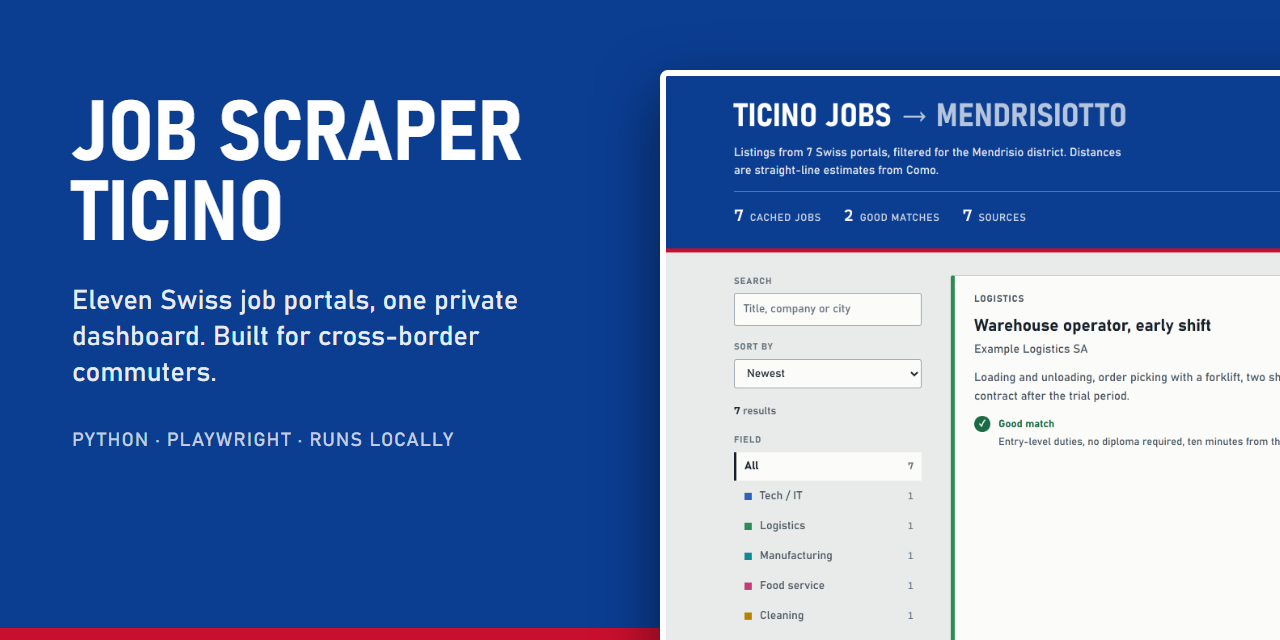
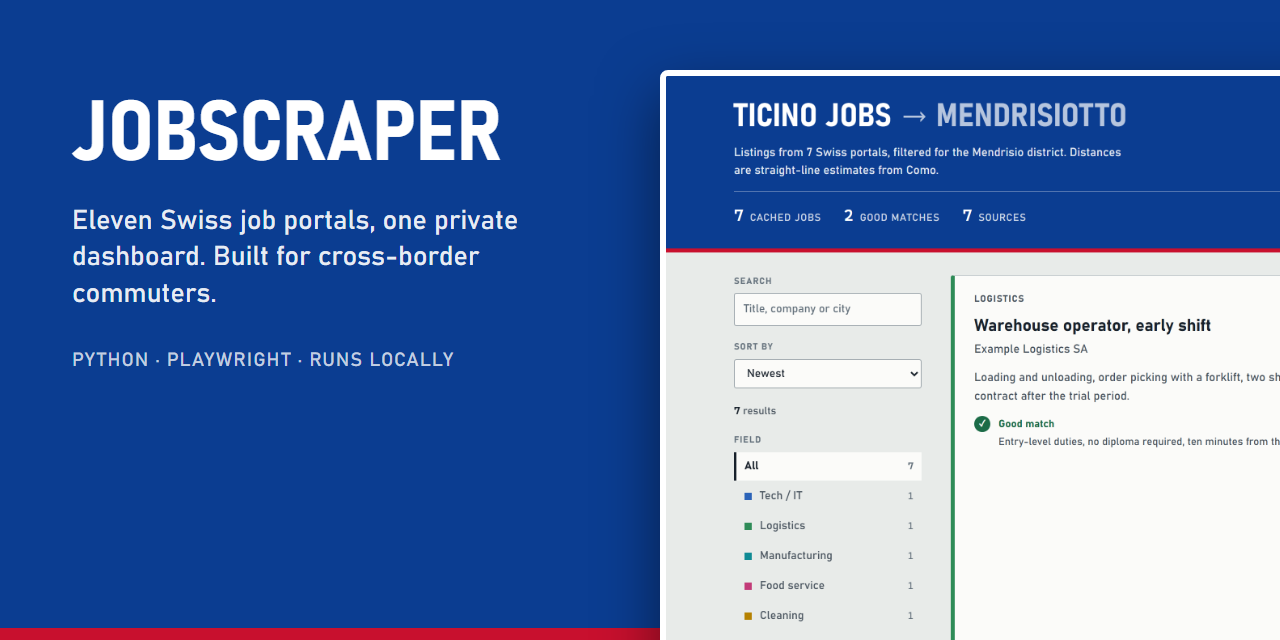
Rename the project to JobScraper
Update the project name, clone and badge links, the security advisory
link, the control panel title and the documentation images.

Changed region(s): [[0.0312, 0.2812, 0.4062, 0.5938], [0.1562, 0.1562, 0.4062, 0.25], [0.0625, 0.6562, 0.3438, 0.7188]]

diff --git a/setup_panel.html b/setup_panel.html
@@ -3,7 +3,7 @@
 <head>
   <meta charset="utf-8">
   <meta name="viewport" content="width=device-width, initial-scale=1">
-  <title>Configure Job Scraper Ticino</title>
+  <title>Configure JobScraper</title>
   <style>
     /* Same palette as the dashboard: cold stone paper, ink, Ticino blue sign, one red action. */
     :root {
@@ -74,7 +74,7 @@
 <body>
 <header class="sign">
   <div class="sign-in">
-    <h1>Job Scraper Ticino</h1>
+    <h1>JobScraper</h1>
     <p class="intro">Choose where and how to search. The search runs in the background and builds your dashboard.</p>
   </div>
 </header>

diff --git a/main.py b/main.py
@@ -1,4 +1,4 @@
-"""Command-line entry point for the Ticino job scraper."""
+"""Command-line entry point for JobScraper."""
 
 import argparse
 import json
@@ -558,7 +558,7 @@ def _save_completed_or_partial(valid_jobs: list[dict], completed: bool) -> None:
 
 
 def _parse_args() -> argparse.Namespace:
-    parser = argparse.ArgumentParser(description="Ticino job scraper")
+    parser = argparse.ArgumentParser(description="JobScraper")
     _add_scan_args(parser)
     _add_runtime_args(parser)
     return parser.parse_args()

diff --git a/tests/test_setup_panel.py b/tests/test_setup_panel.py
@@ -39,7 +39,7 @@ def test_panel_requires_unpredictable_path(panel):
     assert status == 404
     status, html = request(panel, "GET", f"/{panel.token}")
     assert status == 200
-    assert b"Job Scraper Ticino" in html
+    assert b"JobScraper" in html
 
 
 def test_panel_rejects_cross_origin_and_missing_token(panel):

diff --git a/README.md b/README.md
@@ -1,11 +1,11 @@
 <div align="center">
 
-# Job Scraper Ticino
+# JobScraper
 
 **Eleven Swiss job portals, one private dashboard.**<br>
 Built for cross-border commuters who live in Italy and work in the Mendrisiotto (Ticino).
 
-[![CI](https://github.com/jacknegri89/Job-Scraper-Ticino/actions/workflows/ci.yml/badge.svg)](https://github.com/jacknegri89/Job-Scraper-Ticino/actions/workflows/ci.yml)
+[![CI](https://github.com/jacknegri89/JobScraper/actions/workflows/ci.yml/badge.svg)](https://github.com/jacknegri89/JobScraper/actions/workflows/ci.yml)
 ![Python 3.10+](https://img.shields.io/badge/python-3.10%2B-3776AB?logo=python&logoColor=white)
 ![Playwright](https://img.shields.io/badge/scraping-Playwright-2EAD33?logo=playwright&logoColor=white)
 [![MIT License](https://img.shields.io/badge/license-MIT-blue)](./LICENSE)
@@ -24,7 +24,7 @@ Built for cross-border commuters who live in Italy and work in the Mendrisiotto 
 
 Looking for a job across the border means checking a dozen portals, each with its own filters, and still not knowing the one thing that matters: *what would I actually take home in Italy, and how far is it from my door?*
 
-Job Scraper Ticino collects the listings for you, keeps only the eight municipalities around Chiasso and Mendrisio, removes duplicates, and turns the result into a single searchable page. It runs on your computer. There is no server, no account and no tracking.
+JobScraper collects the listings for you, keeps only the eight municipalities around Chiasso and Mendrisio, removes duplicates, and turns the result into a single searchable page. It runs on your computer. There is no server, no account and no tracking.
 
 ## Features
 
@@ -42,8 +42,8 @@ Job Scraper Ticino collects the listings for you, keeps only the eight municipal
 You need Python 3.10 or later.
 
 ```bash
-git clone https://github.com/jacknegri89/Job-Scraper-Ticino.git
-cd Job-Scraper-Ticino
+git clone https://github.com/jacknegri89/JobScraper.git
+cd JobScraper
 
 python -m venv .venv
 # Windows:      .venv\Scripts\activate

diff --git a/CONTRIBUTING.md b/CONTRIBUTING.md
@@ -1,12 +1,12 @@
 # Contributing
 
-Thanks for taking the time to improve Job Scraper Ticino. Bug reports, fixes for broken scrapers and new sources are all welcome.
+Thanks for taking the time to improve JobScraper. Bug reports, fixes for broken scrapers and new sources are all welcome.
 
 ## Set up
 
 ```bash
-git clone https://github.com/jacknegri89/Job-Scraper-Ticino.git
-cd Job-Scraper-Ticino
+git clone https://github.com/jacknegri89/JobScraper.git
+cd JobScraper
 python -m venv .venv
 # Windows: .venv\Scripts\activate    macOS/Linux: source .venv/bin/activate
 python -m pip install -r requirements.txt ruff

diff --git a/CHANGELOG.md b/CHANGELOG.md
@@ -2,6 +2,11 @@
 
 All notable changes to this project are listed here. The format follows [Keep a Changelog](https://keepachangelog.com/en/1.1.0/).
 
+## [Unreleased]
+
+### Changed
+- The project is now called JobScraper (it was Job Scraper Ticino). The old GitHub address redirects to the new one.
+
 ## [1.0.0] - 2026-11-08
 
 First public release.
